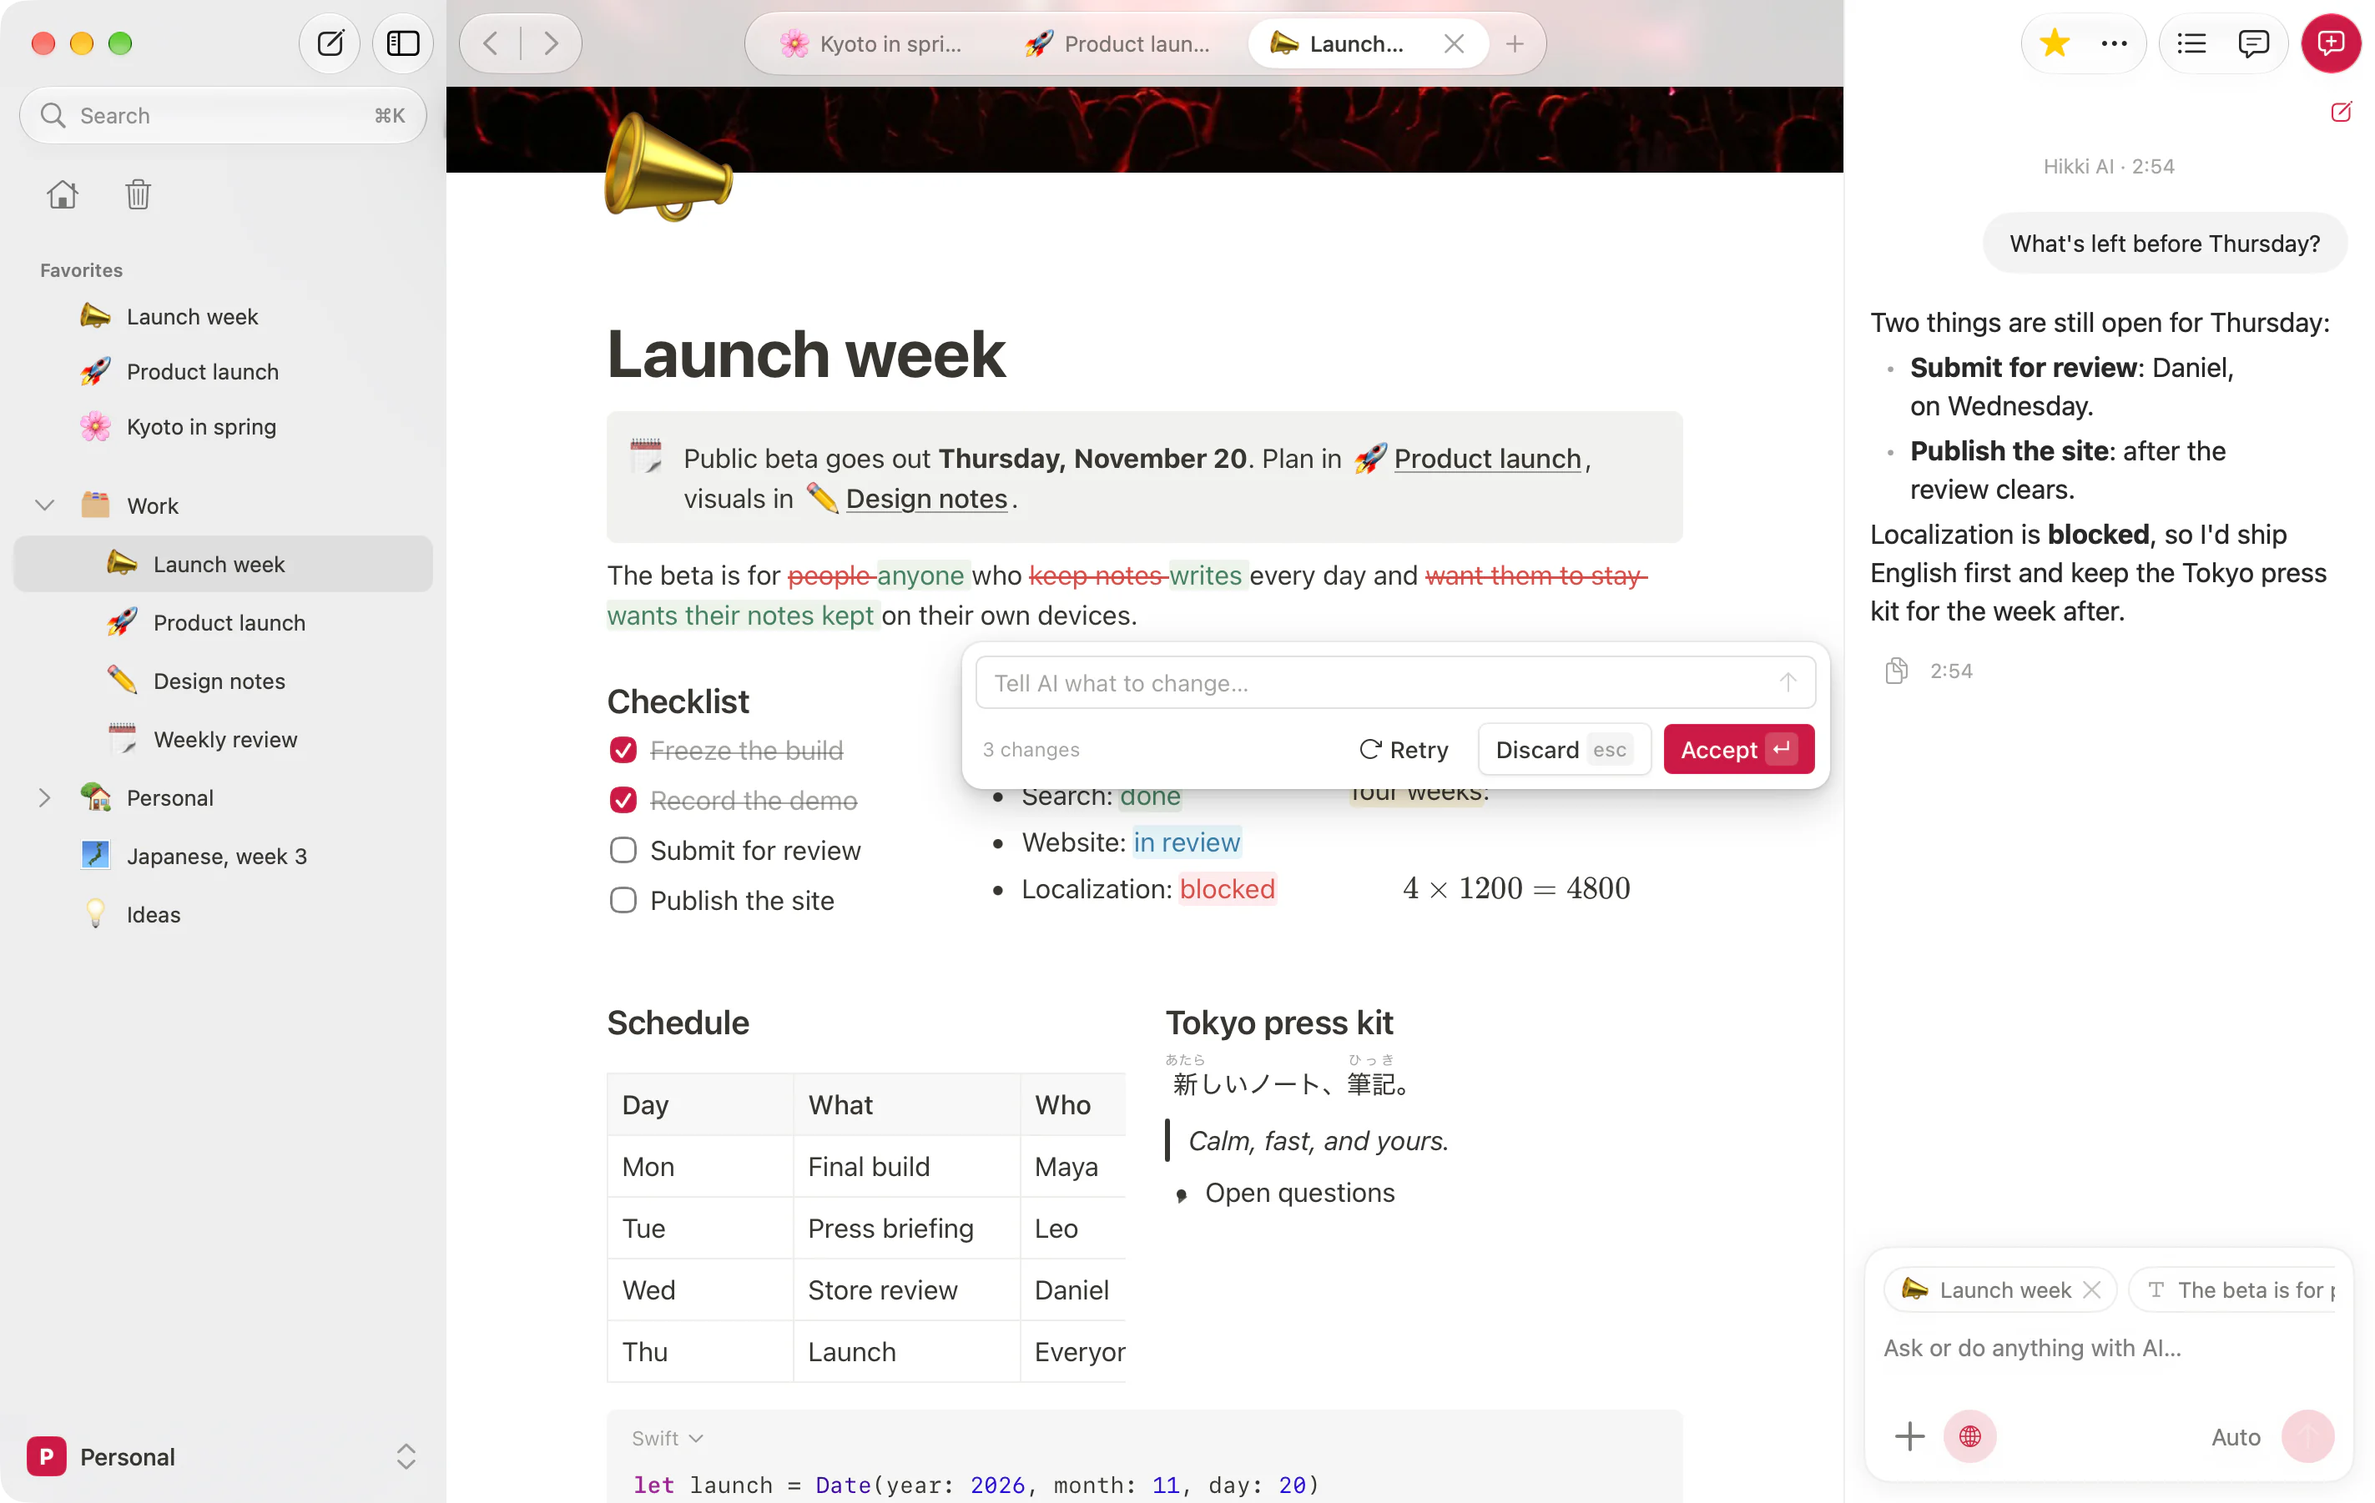
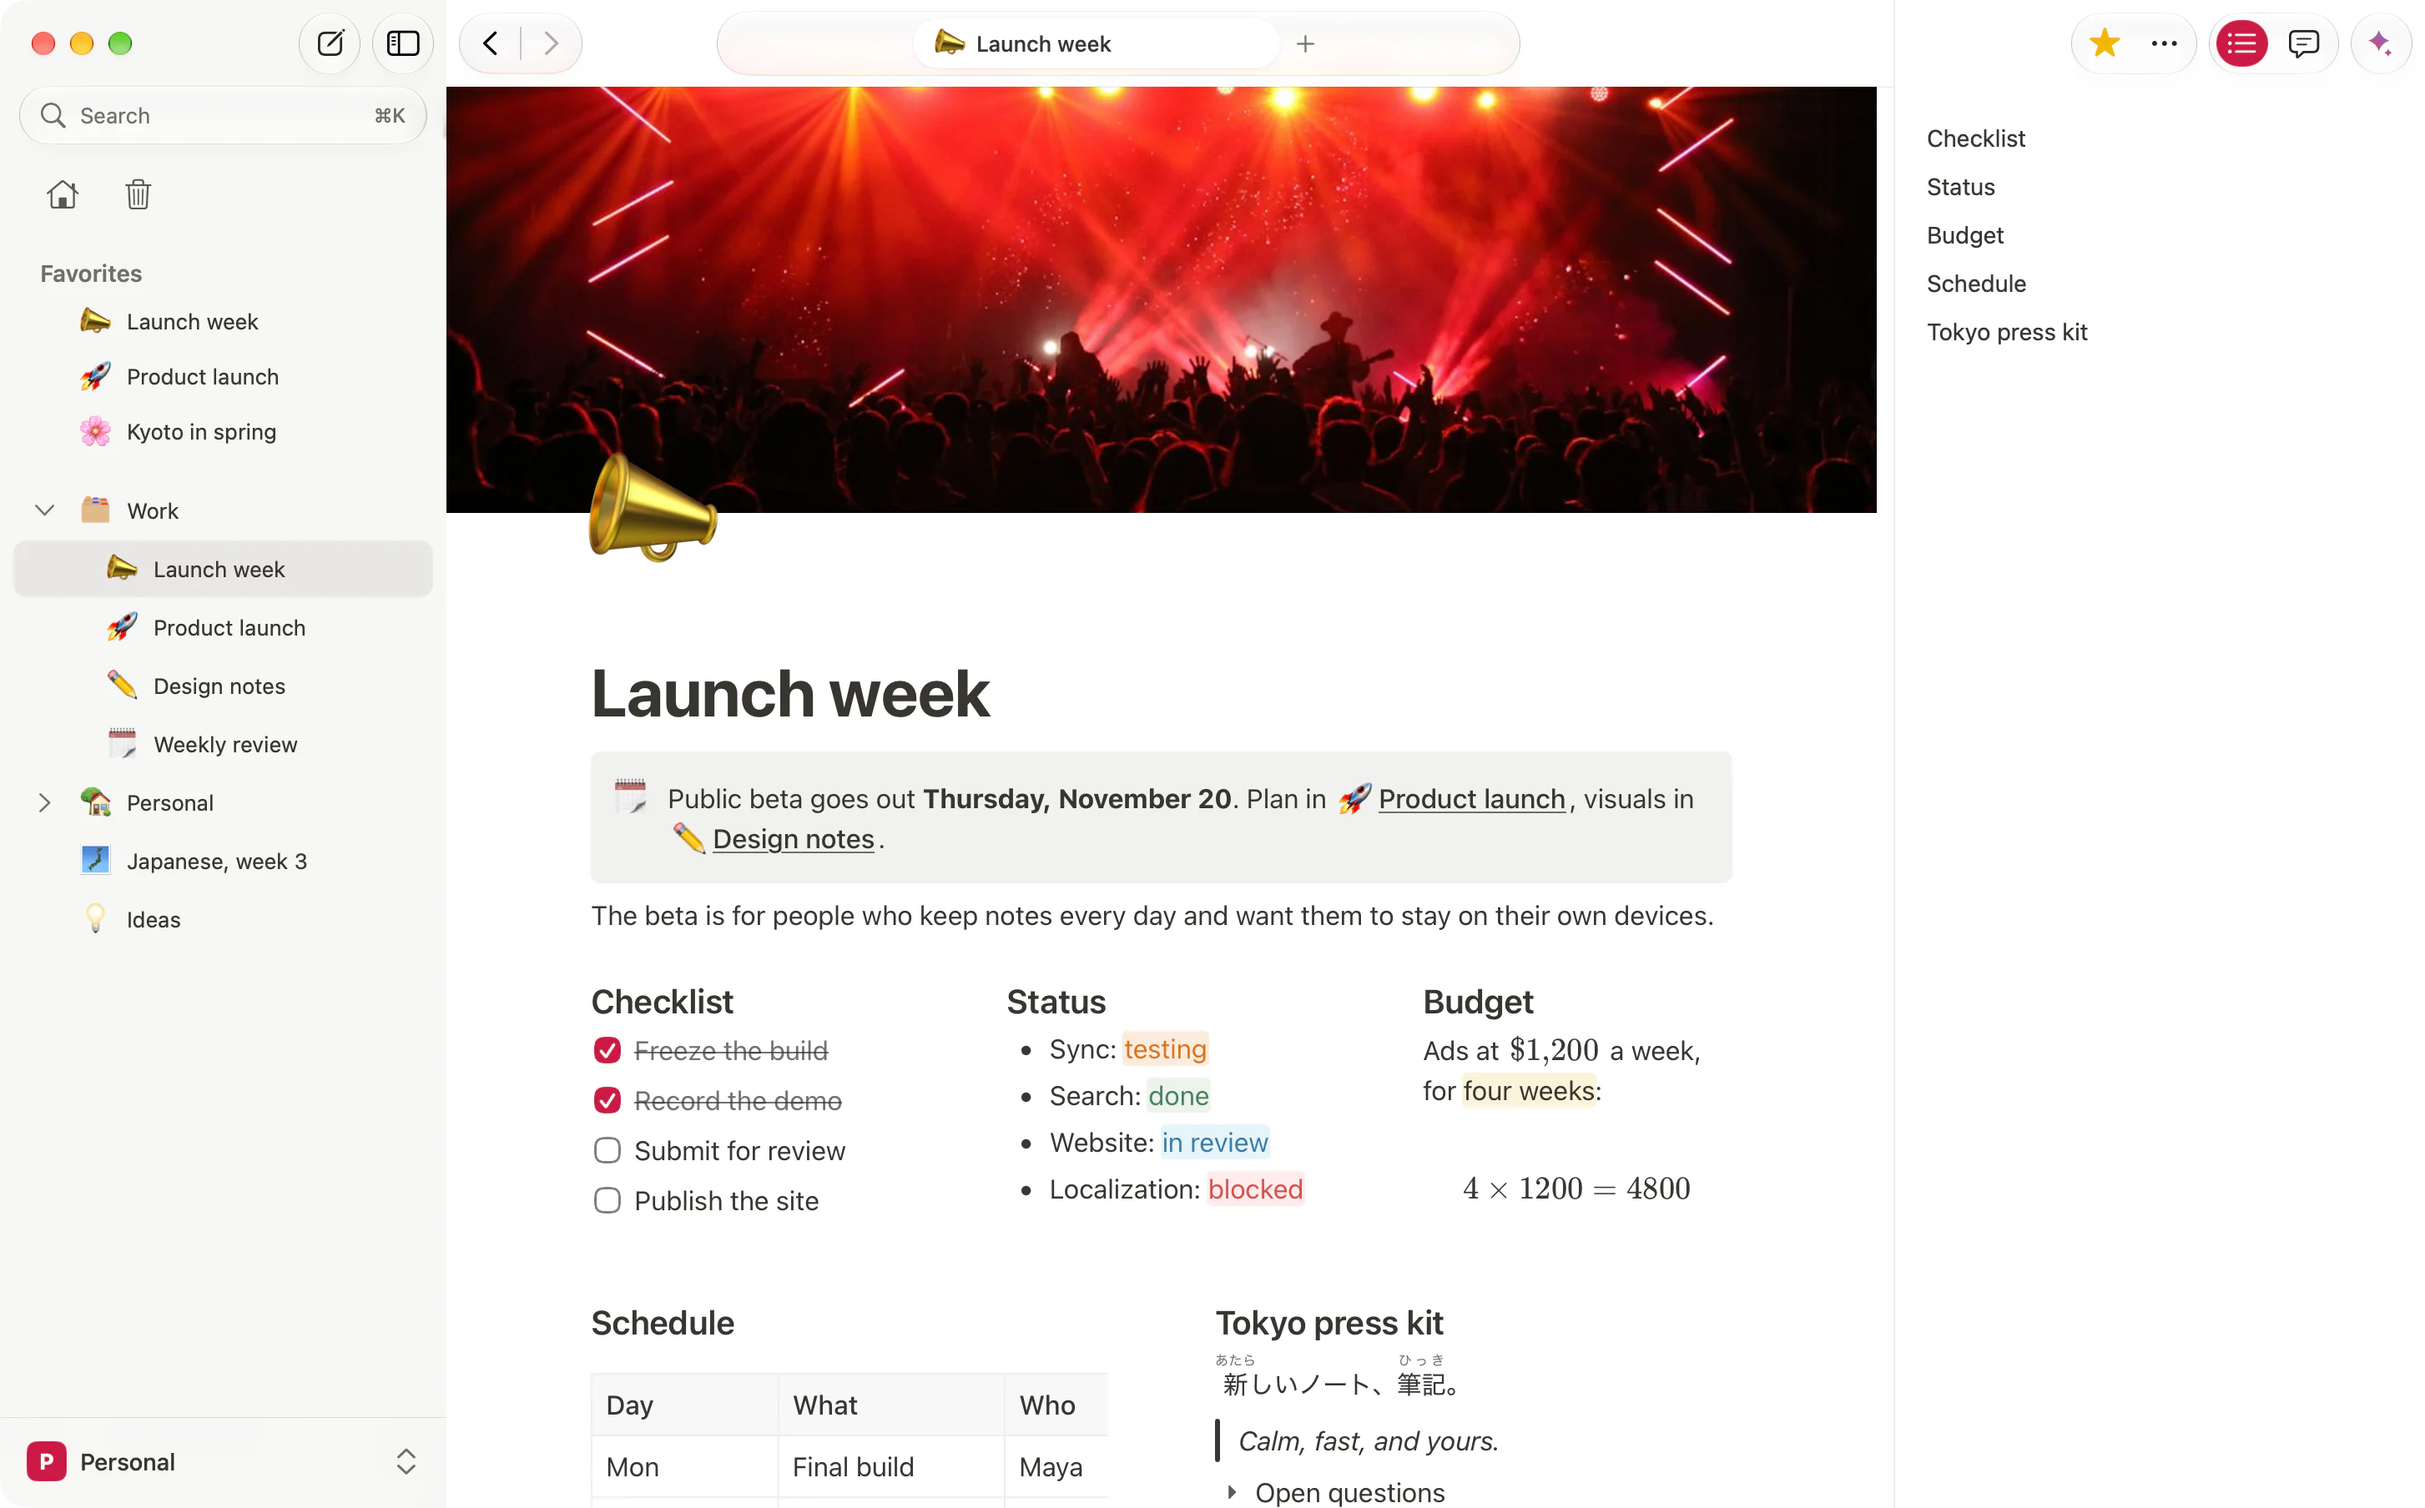
Website: retake the Mac hero on the current build, the toggle's new fold arrow included (ISSUE-182, ISSUE-202)

diff --git a/apps/website/src/routes/index.tsx b/apps/website/src/routes/index.tsx
@@ -73,8 +73,8 @@ function Hero() {
         <Shot
           name="mac-hero"
           alt="Hikki on Mac: a launch plan with a cover photo, a callout, a checklist, a status list and a budget in three columns, a schedule table, furigana and an outline of the page beside it."
-          width={2846}
-          height={1802}
+          width={2906}
+          height={1808}
           class="w-full rounded-[12px]"
           eager
         />
